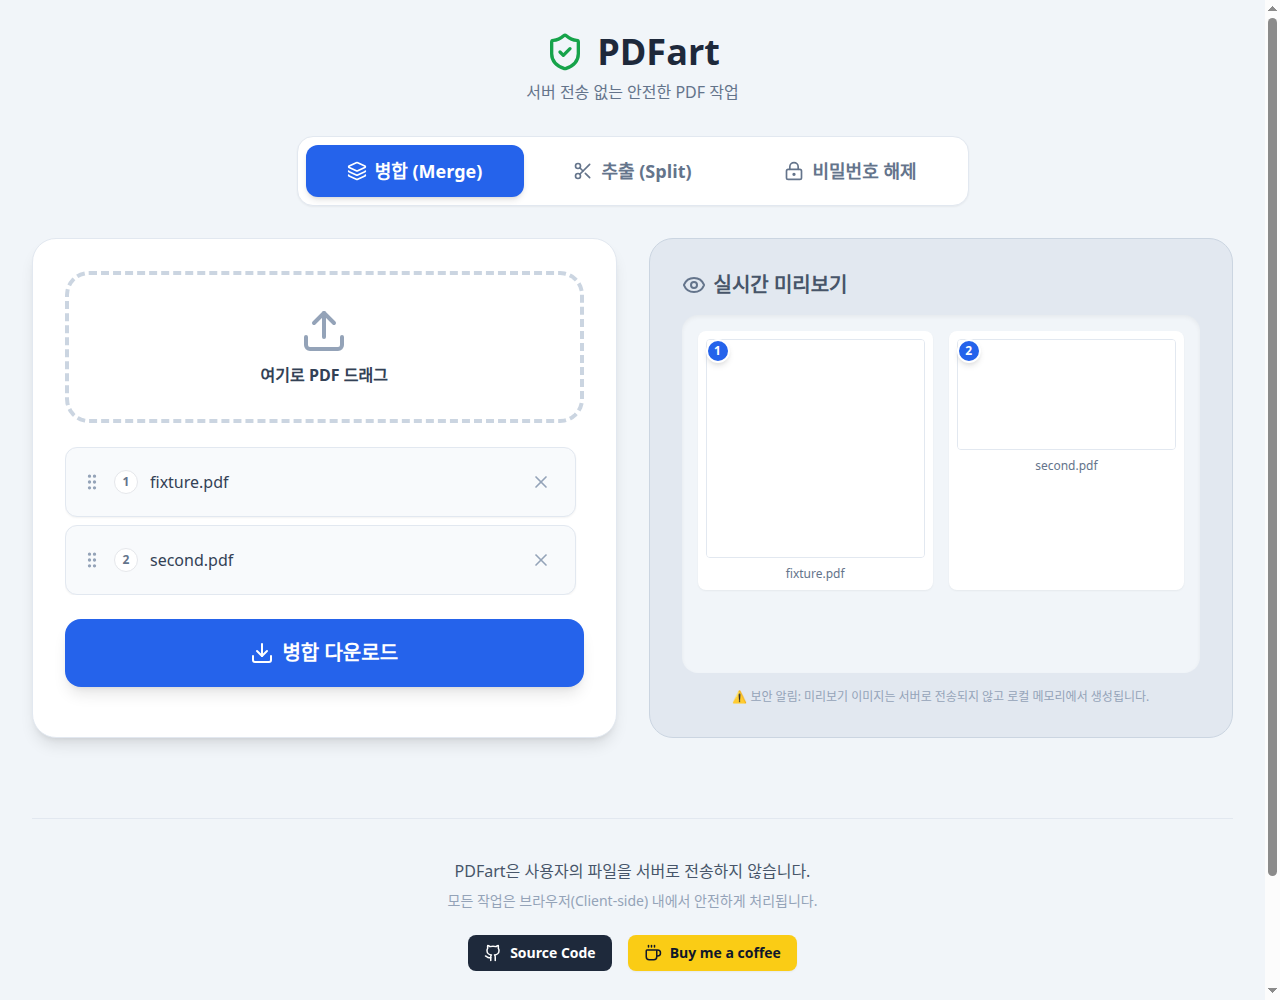
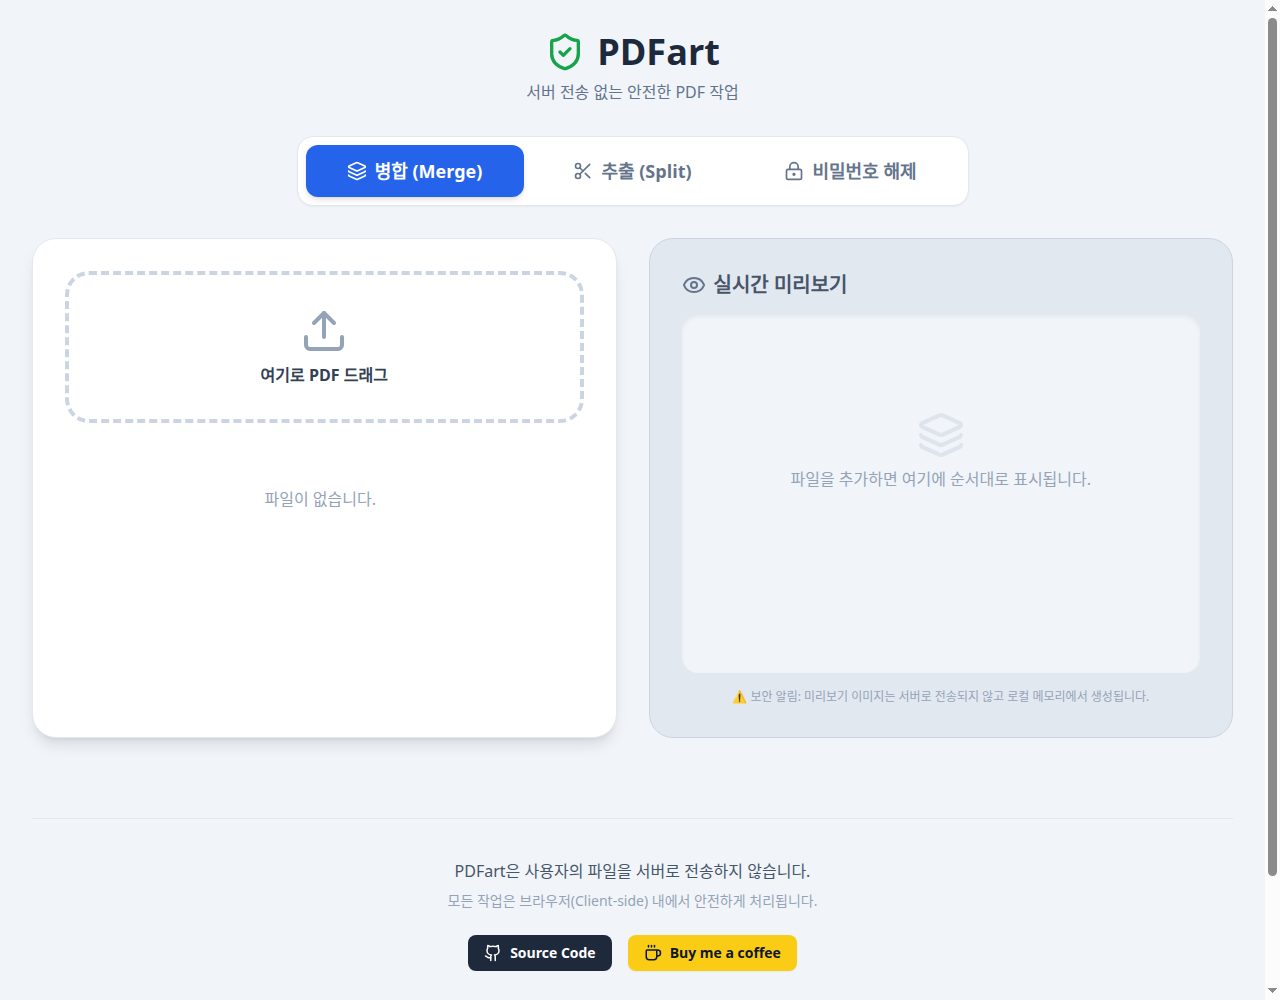
README 미리보기를 기본 화면 한 장으로 바로잡는다
사용자가 요청한 원래 Preview 형식에 맞춰 파일 없는 현재 기본 화면만 남기고 추가 기능 이미지를 제거한다.

Constraint: Preview는 파일 없는 기본 병합 화면 한 장만 유지
Rejected: 기능별 추가 스크린샷 | 원래 단일 Preview 요구와 다름
Confidence: high
Scope-risk: narrow
Directive: Preview 갱신 시 기본 초기 화면 한 장과 단순 alt만 사용
Tested: npm test; npm run lint; npm run build; npm run verify:engine; git diff --check
Not-tested: 없음

diff --git a/tests/readme.test.js b/tests/readme.test.js
@@ -18,12 +18,16 @@ test('documents a directly copyable clone command in both READMEs', async () => 
     }
 });
 
-test('shows captioned merge and password-unlock previews in both READMEs', async () => {
-    const readmes = await readReadmes();
+test('shows only the default main screen in both README Preview sections', async () => {
+    const cases = [
+        { readme: await readProjectFile('README.md'), alt: 'Pdfart main screen' },
+        { readme: await readProjectFile('README.ko.md'), alt: 'Pdfart 기본 화면' },
+    ];
 
-    for (const readme of readmes) {
-        assert.match(readme, /!\[[^\]]{20,}\]\(\.\/screenshot\.png\)\n\n\*[^*]+\*/);
-        assert.match(readme, /!\[[^\]]{20,}\]\(\.\/docs\/images\/pdf-unlock\.png\)\n\n\*[^*]+\*/);
-        assert.doesNotMatch(readme, /!\[Screenshot\]/);
+    for (const { readme, alt } of cases) {
+        const preview = readme.match(/## 📸 Preview\n\n([\s\S]*?)\n\n## /)?.[1];
+        assert.ok(preview);
+        assert.equal(preview, `![${alt}](./screenshot.png)`);
+        assert.doesNotMatch(readme, /docs\/images\/pdf-unlock\.png/);
     }
 });

diff --git a/README.ko.md b/README.ko.md
@@ -20,18 +20,7 @@
 
 ## 📸 Preview
 
-### PDF 병합
-
-![병합할 파일 목록과 페이지 미리보기가 표시된 Pdfart PDF 병합 탭](./screenshot.png)
-
-*페이지를 미리 보며 PDF 파일의 순서를 정하고 병합합니다.*
-
-### 알고 있는 PDF 비밀번호 해제
-
-![암호화 파일과 비밀번호 입력란이 표시된 Pdfart PDF 비밀번호 해제 탭](./docs/images/pdf-unlock.png)
-
-*공개 합성 AES-128 테스트 파일을 사용했으며 비밀번호는 화면에 표시하지
-않았습니다.*
+![Pdfart 기본 화면](./screenshot.png)
 
 ## ✨ 주요 기능 (Key Features)
 

diff --git a/README.md b/README.md
@@ -20,18 +20,7 @@
 
 ## 📸 Preview
 
-### Merge PDFs
-
-![Pdfart merge tab with files arranged for merging and page previews](./screenshot.png)
-
-*Reorder PDF files while reviewing their pages before merging.*
-
-### Remove a known PDF password
-
-![Pdfart password-unlock tab with an encrypted file and password input](./docs/images/pdf-unlock.png)
-
-*Unlock a PDF with a password you already know. This screen uses a public,
-synthetic AES-128 test file and does not show the password.*
+![Pdfart main screen](./screenshot.png)
 
 ## ✨ Key Features
 
